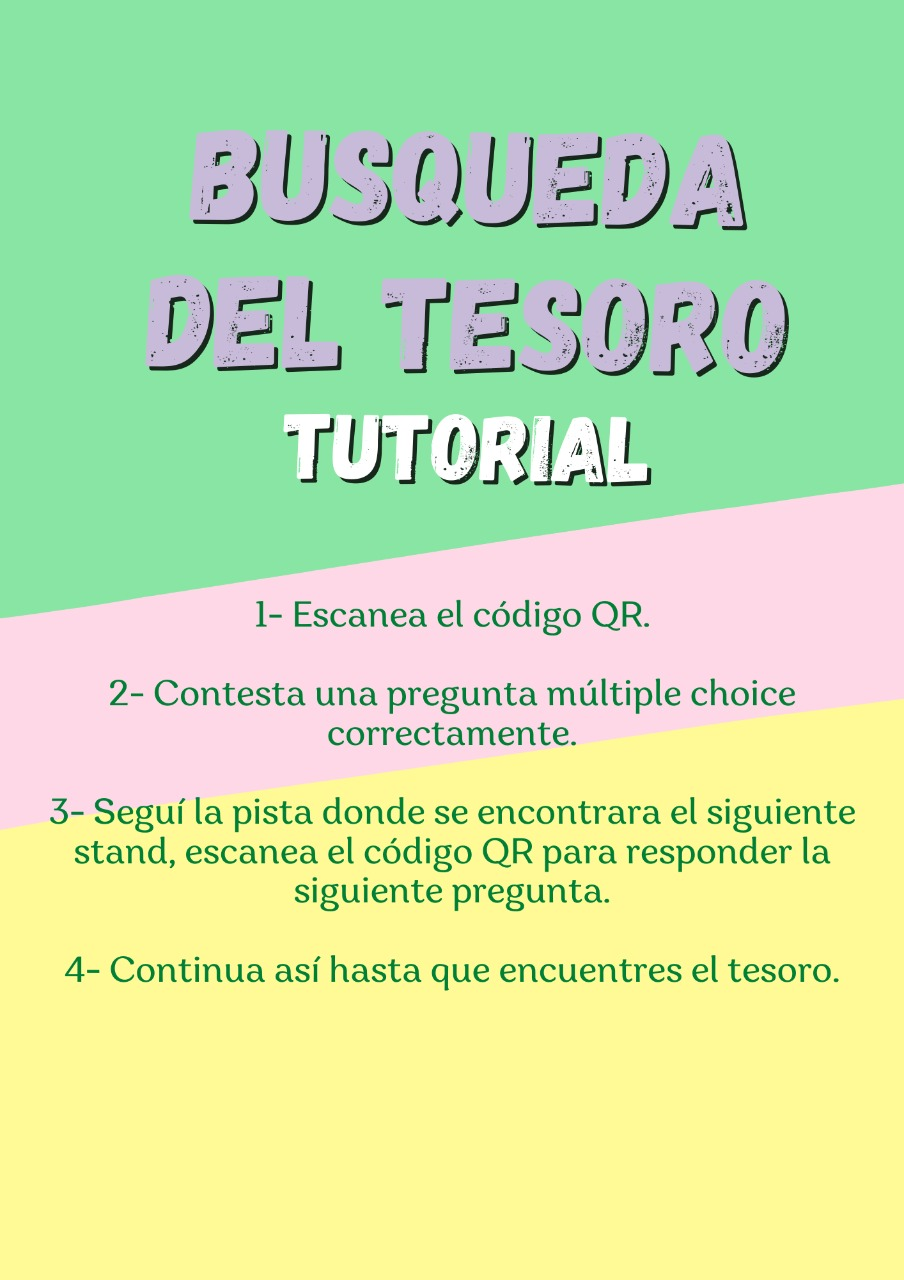
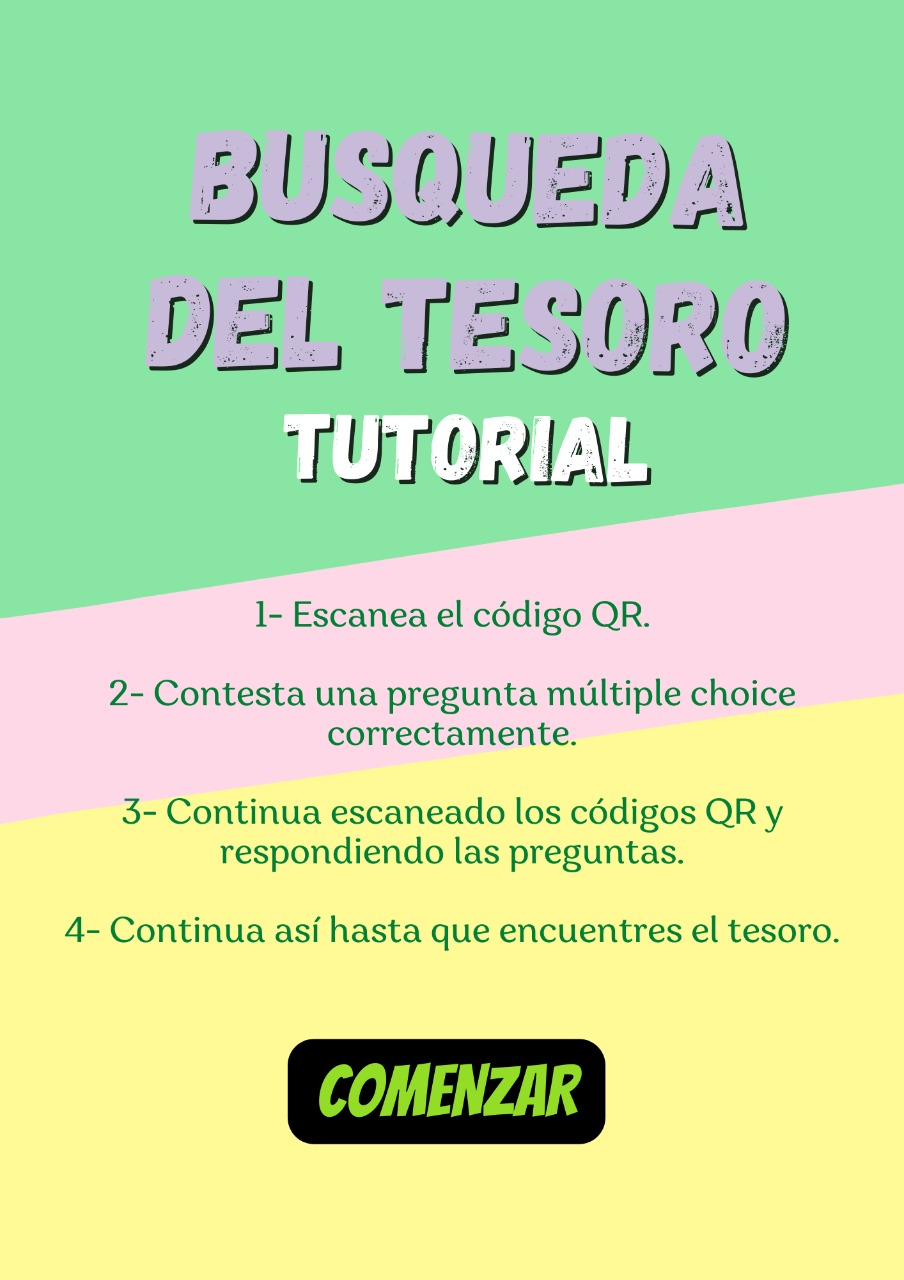
resultado final

diff --git a/index.php b/index.php
@@ -2,6 +2,27 @@
 // Llamamos al archivo estructura.php que contiene las preguntas, respuestas y nombres de stands
 require("estructura.php");
 
+// Creamos la variable puntos
+$puntos = 0;
+
+//Crear una cookie para cada stand
+foreach ($stands as $nombre) {
+    if (!isset($_COOKIE[$nombre])) {
+        setcookie($nombre, 0, time() + 1 * 24 * 60 * 60);
+    } else {
+        if($_COOKIE[$nombre] == 1) {
+            $puntos += 1;
+            $_COOKIE[$nombre] = 2;
+        }
+    }
+}
+// Si los puntos son igual a la cantidad de stands, entonces ganó
+if($puntos == count($stands)) {
+    setcookie("ganador", 1, time() + 1 * 24 * 60 * 60);
+    header("Location: ganador.php");
+    exit();
+}
+
 // Generamos un número aleatorio entre 0 y 4 para las 5 preguntas posibles
 $valpregunta = rand(0, 4); 
 
@@ -16,6 +37,7 @@ if(isset($_GET['stand']) && !($_GET['stand'] == "")) { //Si se ha elegido un sta
 <!DOCTYPE html>
 <html>
 <head>
+    <meta charset="UTF-8">
     <title>Búsqueda del tesoro</title>
     <link href="https://cdn.jsdelivr.net/npm/bootstrap@5.0.2/dist/css/bootstrap.min.css" rel="stylesheet" integrity="sha384-EVSTQN3/azprG1Anm3QDgpJLIm9Nao0Yz1ztcQTwFspd3yD65VohhpuuCOmLASjC" crossorigin="anonymous">
     <link href="assets/css/style.css" rel="stylesheet">
@@ -29,8 +51,17 @@ if(isset($_GET['stand']) && !($_GET['stand'] == "")) { //Si se ha elegido un sta
             <hr>
         </div>
     </header>
-    <div class="text-center margen" id="content-wrap">
+    <div  class="text-center margen" id="content-wrap">
+        <!-- Título del Juego --> 
         <h1 class="nombrejuego">Búsqueda del Tesoro</h1>
+        <?php
+        // Si la cookie tutorial está definida no mostrar imagen, si no, mostrar imagen
+        if(!isset($_COOKIE['tutorial'])) {
+            echo "<img class='img-fluid' src='assets/img/tutorial.jpeg' onclick='irAPregunta();' id='tutorial' />";
+            // Establecer cookie tutorial para que no se muestre la imagen de nuevo, de duracion de 1 dia
+            setcookie("tutorial", 1, time() + 1 * 24 * 60 * 60);
+        }
+        ?>
         <?php
         //Si no se ha elegido un stand
         if(!isset($_GET['stand']) || $_GET['stand'] == ""){ 
@@ -38,8 +69,15 @@ if(isset($_GET['stand']) && !($_GET['stand'] == "")) { //Si se ha elegido un sta
             echo "<h2 class='stand'>No se ha especificado el stand</h2>"; 
         } else { //Si se ha elegido un stand mostrar la pregunta
         ?>
-        <h2 class="stand"><?php echo $stands[$stand]; ?></h2>
-        <div class="text-center"></div>
+        <!-- Stand actual -->
+        <h2 id="stand" <?php if(!isset($_COOKIE['tutorial'])) echo "style='display: none;'";?> class="stand"><?php echo $stands[$stand]; ?></h2>
+        <?php
+            //Si la cookie del stand está definida en 1 o en 2 entonces mostrar mensaje de error
+            if (isset($_COOKIE[$stands[$stand]]) && ($_COOKIE[$stands[$stand]] == 1 || $_COOKIE[$stands[$stand]] == 2)) {
+                echo "<p class='pregunta'>Ya visitaste este stand, busca otro!</p>";
+                echo "<p class='pregunta'>Te faltan ".count($stands)-$puntos." stands para ganar!</p>";
+            } else {
+        ?>
         <?php
         //Si se ha enviado una respuesta
         if(isset($_POST['respuesta'])){ 
@@ -52,18 +90,35 @@ if(isset($_GET['stand']) && !($_GET['stand'] == "")) { //Si se ha elegido un sta
             //Si la respuesta es correcta
             if($respuesta == $respuestas[$stand][$preguntact]["correcta"]){ 
                 //Se muestra mensaje de correcto
-                echo "<p class='pregunta'>Correcto!</p>"; 
+                echo "<p class='pregunta'>Correcto! Busca otro código QR para seguir jugando!</p>";
+                //Se cambia el valor de la cookie del stand a 1
+                setcookie($stands[$stand], 1, time() + 1 * 24 * 60 * 60);
+                echo "<p class='pregunta'>Te faltan ".count($stands)-($puntos+1)." stands para ganar!</p>";
+                if($puntos+1 == count($stands)) {
+                    setcookie("ganador", 1, time() + 1 * 24 * 60 * 60);
+                    header("Location: ganador.php");
+                    exit();
+                }
             } else { // Si no es correcta
                 //Se muestra un mensaje de incorrecto
-                echo "<p class='pregunta'>Incorrecto! Vuelve a intentarlo más tarde!</p>"; 
+                echo "<p class='pregunta'>Incorrecto! Vuelve a intentarlo dentro de 3 minutos!</p>"; 
+                echo "<p class='pregunta'>Te faltan ".count($stands)-$puntos." stands para ganar!</p>";
+                //Se establece una cookie llamada fallo de duracion de 3 minutos con el valor de 1
+                setcookie("fallo{$stands[$stand]}", 1, time() + 3 * 60);
             }
         } else { //Si no se ha enviado una respuesta mostrar todo lo de abajo
+            //Si la cookie fallo está definida, entonces mostrar error de volver a intentarlo en cuanto
+            //se termine la cookie
+            if(isset($_COOKIE["fallo{$stands[$stand]}"])) {
+                echo "<p class='pregunta'>¡Fallaste al responder anteriormente.. Vuelve a intentarlo más tarde!</p>";
+                echo "<p class='pregunta'>Te faltan ".count($stands)-$puntos." stands para ganar!</p>";
+            } else {
         ?>
-        <p class="pregunta">
+        <p class="pregunta" id="pregunta" <?php if(!isset($_COOKIE['tutorial'])) echo "style='display: none;'";?>>
             <?php echo $pregunta; ?> <!-- Se muestra la pregunta -->
         </p>
         
-        <form action="index.php?stand=<?php echo $stand; ?>" method="POST">
+        <form action="index.php?stand=<?php echo $stand; ?>" method="POST" <?php if(!isset($_COOKIE['tutorial'])) echo "style='display: none;'";?> id="formulario">
             <div class="mb-3">
                 <input type="hidden" name="pregunta" value="<?php echo $pregunta ?>" />
                 <?php 
@@ -75,7 +130,9 @@ if(isset($_GET['stand']) && !($_GET['stand'] == "")) { //Si se ha elegido un sta
                 ?>
             </div>
         </form>
-        <?php 
+        <?php
+            } //Fin del if si tiene un fallo
+        } //Fin del if de si ya se ha respondido el stand
         } //Fin del if de si se ha enviado una respuesta
         } //Fin del if de si se ha elegido un stand
         ?>
@@ -83,11 +140,14 @@ if(isset($_GET['stand']) && !($_GET['stand'] == "")) { //Si se ha elegido un sta
     <footer class="text-center text-white" id="footer" style="background-color: #f1f1f1;">
         <div class="container pt-4">
             <section class="mb-4">
+                <!-- Sitio Web -->
+                <a class="btn btn-link btn-floating btn-lg text-dark m-1" href="https://ifdcarcano-crr.infd.edu.ar/sitio/" target="_blank" role="button" data-mdb-ripple-color="dark"><i class="fa-solid fa-school" style="font-size: 40pt; color: darkgreen;"></i
+            ></a>
                 <!-- Facebook -->
-                <a class="btn btn-link btn-floating btn-lg text-dark m-1" href="#!" role="button" data-mdb-ripple-color="dark"><i class="fab fa-facebook-f" style="font-size: 40pt; color: darkblue;"></i
+                <a class="btn btn-link btn-floating btn-lg text-dark m-1" href="https://www.facebook.com/isfdcarcano" target="_blank" role="button" data-mdb-ripple-color="dark"><i class="fab fa-facebook-f" style="font-size: 40pt; color: darkblue;"></i
             ></a>
                 <!-- Instagram -->
-                <a class="btn btn-link btn-floating btn-lg text-dark m-1" href="#!" role="button" data-mdb-ripple-color="dark"><i class="fab fa-instagram" style="font-size: 40pt; color: darkorchid;"></i
+                <a class="btn btn-link btn-floating btn-lg text-dark m-1" href="https://www.instagram.com/isfdcarcano/" role="button" target="_blank" data-mdb-ripple-color="dark"><i class="fab fa-instagram" style="font-size: 40pt; color: darkorchid;"></i
             ></a>
             </section>
         </div>
@@ -95,7 +155,18 @@ if(isset($_GET['stand']) && !($_GET['stand'] == "")) { //Si se ha elegido un sta
             TECNICATURA SUPERIOR EN DESARROLLO DE SOFTWARE 2DO AÑO
         </div>
     </footer>
+    <script type="text/javascript">
+        function irAPregunta() {
+            const tutorial = document.getElementById('tutorial');
+            const pregunta = document.getElementById('pregunta');
+            const formulario = document.getElementById('formulario');
+            const stand = document.getElementById('stand');
+            tutorial.style.display = 'none';
+            stand.style.display = 'block';
+            pregunta.style.display = 'block';
+            formulario.style.display = 'block';
+        }
+    </script>
     <script src="https://cdn.jsdelivr.net/npm/bootstrap@5.0.2/dist/js/bootstrap.bundle.min.js" integrity="sha384-MrcW6ZMFYlzcLA8Nl+NtUVF0sA7MsXsP1UyJoMp4YLEuNSfAP+JcXn/tWtIaxVXM" crossorigin="anonymous"></script>
 </body>
-
 </html>

diff --git a/ganador.php b/ganador.php
@@ -1,0 +1,53 @@
+<!DOCTYPE html>
+<html>
+<head>
+    <title>Búsqueda del tesoro</title>
+    <meta charset="UTF-8">
+    <link href="https://cdn.jsdelivr.net/npm/bootstrap@5.0.2/dist/css/bootstrap.min.css" rel="stylesheet" integrity="sha384-EVSTQN3/azprG1Anm3QDgpJLIm9Nao0Yz1ztcQTwFspd3yD65VohhpuuCOmLASjC" crossorigin="anonymous">
+    <link href="assets/css/style.css" rel="stylesheet">
+    <script src="https://kit.fontawesome.com/9604b60dc2.js" crossorigin="anonymous"></script>
+</head>
+
+<body>
+    <header>
+        <!-- Logo del Instituto -->
+        <div class="text-center">
+            <img class="img-fluid" src="assets/img/logo-instituto.png" />
+            <hr>
+        </div>
+    </header>
+    <div class="text-center margen" id="content-wrap">
+        <h1 class="nombrejuego">Búsqueda del Tesoro</h1>
+        <?php
+        //Si no está definida la cookie de ganador
+        if(!isset($_COOKIE["ganador"])) {
+            //Mostrar mensaje de que no se vale hacer trampa
+            echo "<h2 class='stand'>No se vale hacer trampa!</h2>";
+        } else { // Si está definida
+            //Mostrar mensaje de ganador
+            echo '<img class="img-fluid" src="assets/img/ganador.jpeg" />';
+        }
+        ?>
+    </div>
+    <footer class="text-center text-white" id="footer" style="background-color: #f1f1f1;">
+        <div class="container pt-4">
+            <section class="mb-4">
+                <!-- Sitio Web -->
+                <a class="btn btn-link btn-floating btn-lg text-dark m-1" href="https://ifdcarcano-crr.infd.edu.ar/sitio/" target="_blank" role="button" data-mdb-ripple-color="dark"><i class="fa-solid fa-school" style="font-size: 40pt; color: darkgreen;"></i
+            ></a>
+                <!-- Facebook -->
+                <a class="btn btn-link btn-floating btn-lg text-dark m-1" href="https://www.facebook.com/isfdcarcano" target="_blank" role="button" data-mdb-ripple-color="dark"><i class="fab fa-facebook-f" style="font-size: 40pt; color: darkblue;"></i
+            ></a>
+                <!-- Instagram -->
+                <a class="btn btn-link btn-floating btn-lg text-dark m-1" href="https://www.instagram.com/isfdcarcano/" role="button" target="_blank" data-mdb-ripple-color="dark"><i class="fab fa-instagram" style="font-size: 40pt; color: darkorchid;"></i
+            ></a>
+            </section>
+        </div>
+        <div class="text-center p-3" style="background-color: rgba(0, 0, 0, 0.2); font-size: 30pt; color: darkred;">
+            TECNICATURA SUPERIOR EN DESARROLLO DE SOFTWARE 2DO AÑO
+        </div>
+    </footer>
+    <script src="https://cdn.jsdelivr.net/npm/bootstrap@5.0.2/dist/js/bootstrap.bundle.min.js" integrity="sha384-MrcW6ZMFYlzcLA8Nl+NtUVF0sA7MsXsP1UyJoMp4YLEuNSfAP+JcXn/tWtIaxVXM" crossorigin="anonymous"></script>
+</body>
+
+</html>

diff --git a/estructura.php b/estructura.php
@@ -157,9 +157,9 @@ $respuestas = array(
             "correcta" => "Ninguna de las anteriores",
             "posibles" => array(
                 "Fiesta Nacional del Chamamé",
-                "Fiesta NAcional del Surubí",
+                "Fiesta Nacional del Surubí",
                 "Fiesta Nacional de la Naranja",
-                "Fiesta del Carnavaal de Frontera",
+                "Fiesta del Carnaval de Frontera",
                 "Ninguna de las anteriores"
             )
         ),
@@ -168,7 +168,7 @@ $respuestas = array(
             "posibles" => array(
                 "Campeonato de futbol local",
                 "Fiesta de la Sandía",
-                "Carreraas universitarias",
+                "Carreras universitarias",
                 "Pavimentación de calles",
                 "Ninguna de las anteriores"
             )
@@ -186,7 +186,7 @@ $respuestas = array(
         "¿Qué importancia tienen los carnavales para el turismo en Monte Caseros?" => array(
             "correcta" => "Mucha",
             "posibles" => array(
-                "Extrema (es el único turismo que hay)",
+                "Extrema",
                 "Mucha",
                 "Poca",
                 "Casi nada",
